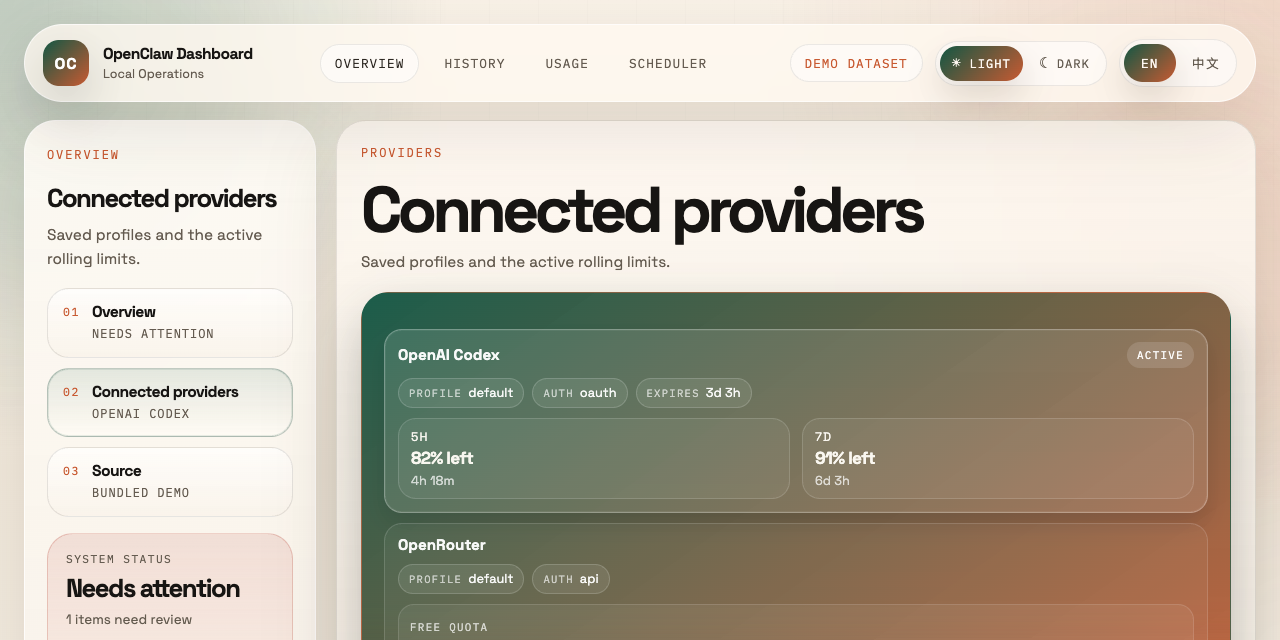
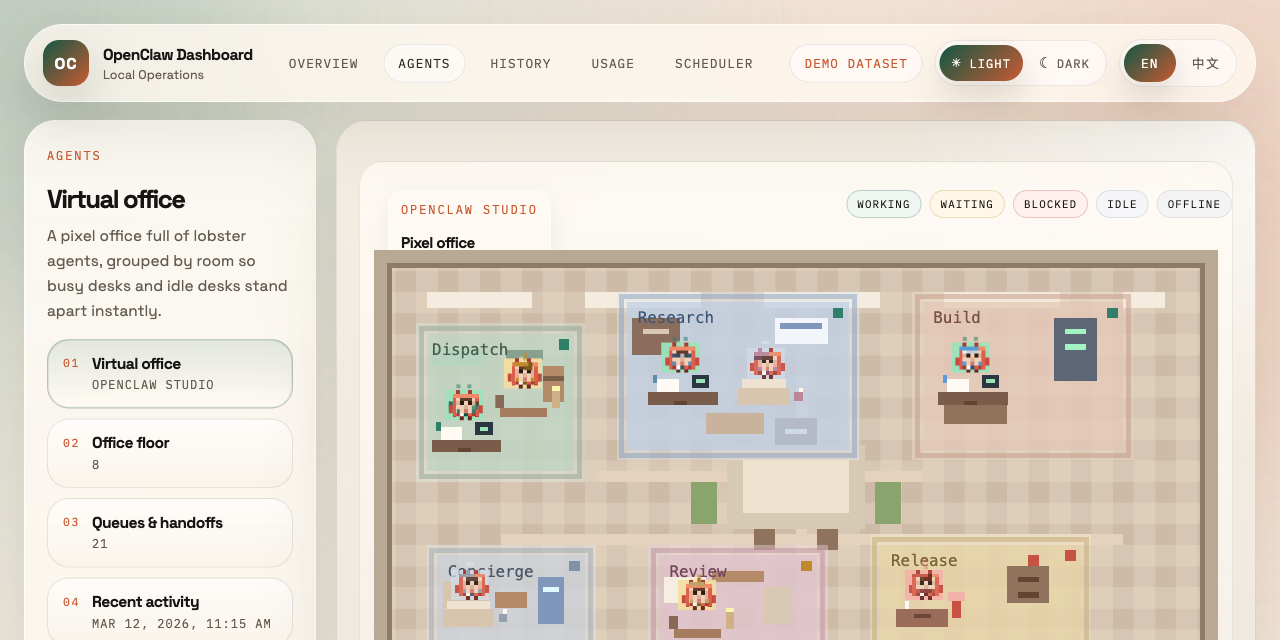
docs(release): prepare v0.4.0 preview

diff --git a/README.md b/README.md
@@ -2,16 +2,19 @@
 
 [English](README.md) | [简体中文](README.zh-CN.md)
 
-A local-first operations dashboard for OpenClaw with menu-driven views for overview, history, usage, and scheduler health.
+OpenClaw dashboard with dedicated Agents, Overview, History, Usage, and Scheduler workspaces.
 
 <p align="center">
-  <img src="./.github/assets/readme-demo.png" alt="OpenClaw Dashboard desktop preview" width="78%" />
-  <img src="./.github/assets/readme-mobile.png" alt="OpenClaw Dashboard mobile preview" width="19%" />
+  <img src="./.github/assets/readme-demo.png" alt="OpenClaw Dashboard agents virtual office desktop preview" width="78%" />
+  <img src="./.github/assets/readme-mobile.png" alt="OpenClaw Dashboard agents virtual office mobile preview" width="19%" />
 </p>
 
 ## Features
 
 - top-level dashboard shell with a primary menu, contextual left navigation, and single-panel rendering
+- dedicated `Agents` workspace with room-based navigation
+- `Virtual Office` pixel office scene for active, waiting, blocked, and idle agents
+- `Office Floor`, `Queues & handoffs`, and `Recent activity` panels for simplified agent operations visibility
 - latest usage report summary
 - connected providers with auth/profile metadata, active highlighting, and reusable limit tiles
 - Codex 5h / 7d rolling limit visibility inside the active provider row
@@ -24,7 +27,7 @@ A local-first operations dashboard for OpenClaw with menu-driven views for overv
 - automatic fallback to a bundled demo dataset for public previews and first-run setup
 - normalized usage history and trend charts across multiple reports
 
-The repo is intentionally broader than a single usage report skill. The goal is a proper OpenClaw dashboard that can grow into channels, browser telemetry, delivery health, and host-level schedulers.
+The repo is intentionally broader than a single usage report skill. The goal is a proper OpenClaw dashboard that can grow into agent operations, channels, browser telemetry, delivery health, and host-level schedulers.
 
 ## How it works
 
@@ -43,10 +46,10 @@ live install is present, the app serves bundled demo data instead.
 - usage reports: `workspace/memory/usage/*.md`
 - cron jobs: `cron/jobs.json`
 
-This means the app is local-first and does not need a custom backend yet. The JSON snapshot is
-also exposed at `/api/snapshot`, including normalized `usage.history` data for charts,
-`usage.providerLimits` for active rolling windows, and `usage.providerProfiles` for saved provider
-profiles such as OpenAI Codex and OpenRouter.
+This keeps the app centered on your own OpenClaw setup and avoids needing a custom backend yet.
+The JSON snapshot is also exposed at `/api/snapshot`, including normalized `agents` data for the
+office views, `usage.history` data for charts, `usage.providerLimits` for active rolling windows,
+and `usage.providerProfiles` for saved provider profiles such as OpenAI Codex and OpenRouter.
 
 ## Quick Start
 
@@ -106,12 +109,21 @@ The repo also includes a GitHub Actions workflow at `.github/workflows/ci.yml` t
 typechecks, and builds against the bundled demo dataset on every push to `main` and every pull
 request.
 
+## Current Surfaces
+
+- `Agents`: virtual office, office floor, queues and handoffs, recent activity
+- `Overview`: latest summary cards and high-signal operational state
+- `History`: usage history trends and chart views
+- `Usage`: provider state, rolling limits, source share, and model breakdown
+- `Scheduler`: cron overview, next jobs, and delivery failures
+
 ## Current assumptions
 
 - usage data is parsed from the markdown produced by the current `usage-tracker`
 - the parser accepts both newer account-status reports and older quota-only report variants
 - top-model source share is derived from `Model × Source Breakdown`
 - OpenRouter free-quota visibility comes from the AI Model Daily Usage Report when that section is present
+- agent office views are derived from `agents/dashboard.json` or inferred session activity when available
 - host-side schedulers like `launchd` are not ingested yet
 
 ## Roadmap

diff --git a/README.zh-CN.md b/README.zh-CN.md
@@ -2,16 +2,19 @@
 
 [English](README.md) | [简体中文](README.zh-CN.md)
 
-一个面向 OpenClaw 的本地优先运维仪表盘，提供概览、历史、用量和调度四个菜单视图。
+一个面向 OpenClaw 的运维仪表盘，提供 Agents、概览、历史、用量和调度等独立工作区。
 
 <p align="center">
-  <img src="./.github/assets/readme-demo.png" alt="OpenClaw Dashboard 桌面端预览" width="78%" />
-  <img src="./.github/assets/readme-mobile.png" alt="OpenClaw Dashboard 移动端预览" width="19%" />
+  <img src="./.github/assets/readme-demo.png" alt="OpenClaw Dashboard Agents 虚拟办公室桌面端预览" width="78%" />
+  <img src="./.github/assets/readme-mobile.png" alt="OpenClaw Dashboard Agents 虚拟办公室移动端预览" width="19%" />
 </p>
 
 ## 功能特性
 
 - 顶部主菜单 + 左侧上下文导航 + 单面板渲染的 dashboard shell
+- 独立的 `Agents` 工作区和按房间组织的二级导航
+- 用像素风 `Virtual Office` 直观展示 active / waiting / blocked / idle agents
+- `Office Floor`、`Queues & handoffs`、`Recent activity` 三个补充面板，用于快速理解 agent 运转状态
 - 最新 usage 报告摘要
 - 已连接 providers 视图，包含 auth/profile 元数据、active 高亮和可复用的限额 tile
 - Codex 的 5h / 7d 滚动限额直接展示在 active provider 行内
@@ -24,7 +27,7 @@
 - 面向公开预览和首次运行的内置 demo 数据自动回退
 - 基于多份报告归一化后的 usage 历史和趋势图
 
-这个仓库的目标不局限于单个 usage report skill，而是一个可以继续扩展到 channels、browser telemetry、delivery health 和 host-level schedulers 的完整 OpenClaw dashboard。
+这个仓库的目标不局限于单个 usage report skill，而是一个可以继续扩展到 agent 运维、channels、browser telemetry、delivery health 和 host-level schedulers 的完整 OpenClaw dashboard。
 
 ## 工作方式
 
@@ -41,7 +44,7 @@
 - usage 报告：`workspace/memory/usage/*.md`
 - cron 任务：`cron/jobs.json`
 
-这意味着它目前仍然是 local-first 的，不需要额外自定义后端。JSON 快照也会通过 `/api/snapshot` 暴露出来，其中包含供图表使用的归一化 `usage.history` 数据、用于 active 滚动窗口的 `usage.providerLimits`，以及用于已保存 provider profile 的 `usage.providerProfiles`。
+这意味着它仍然围绕你自己的 OpenClaw 本地数据运行，不需要额外自定义后端。JSON 快照也会通过 `/api/snapshot` 暴露出来，其中包含供 Agents 办公室视图使用的归一化 `agents` 数据、供图表使用的 `usage.history` 数据、用于 active 滚动窗口的 `usage.providerLimits`，以及用于已保存 provider profile 的 `usage.providerProfiles`。
 
 ## 快速开始
 
@@ -99,12 +102,21 @@ pnpm check
 
 仓库还包含一个位于 `.github/workflows/ci.yml` 的 GitHub Actions 工作流，会在每次 push 到 `main` 和每次 pull request 时基于内置 demo 数据执行 install、typecheck 和 build。
 
+## 当前页面
+
+- `Agents`：Virtual Office、Office Floor、Queues & handoffs、Recent activity
+- `Overview`：最新摘要卡片和高优先级运行状态
+- `History`：usage 历史趋势和图表视图
+- `Usage`：provider 状态、滚动限额、来源占比和模型明细
+- `Scheduler`：cron 概览、下一批任务和投递失败
+
 ## 当前假设
 
 - usage 数据来自当前 `usage-tracker` 生成的 markdown
 - 解析器同时兼容新的 account-status 报告和旧的 quota-only 报告
 - Top 模型来源占比来自 `Model × Source Breakdown`
 - OpenRouter free quota 的可见性来自 AI Model Daily Usage Report 中的对应 section（如果存在）
+- agent 办公室视图来自 `agents/dashboard.json`，如果存在 session 数据也可以从中推断状态
 - 还没有接入 `launchd` 这类主机侧调度器
 
 ## 路线图

diff --git a/CHANGELOG.md b/CHANGELOG.md
@@ -6,6 +6,24 @@ The format is based on Keep a Changelog, and this project follows Semantic Versi
 
 ## [Unreleased]
 
+## [0.4.0] - 2026-03-13
+
+### Added
+
+- A top-level `Agents` workspace with `Virtual Office`, `Office Floor`, `Queues & handoffs`, and `Recent activity` panels.
+- A pixel-art `Virtual Office` scene that places OpenClaw agents into room-based office zones with room focus, desk feed, and latest activity rails.
+- A new agent snapshot flow in the public demo dataset so README and GitHub preview assets can show the multi-agent dashboard safely.
+
+### Changed
+
+- Reworked the app shell into a top menu plus contextual left navigation so each module renders as a focused single-panel workspace instead of a long scrolling homepage.
+- Updated the public positioning of the product from a usage-only dashboard to a broader operations surface for agents, providers, usage, and scheduler health.
+- Refreshed README, release docs, and GitHub preview assets to match the current `Agents`-first product surface.
+
+### Fixed
+
+- Prevented lobster-agent sprites in `Virtual Office` from overlapping by giving each room unique seat placement and separate overview/focus density.
+
 ## [0.3.0] - 2026-03-10
 
 ### Added
